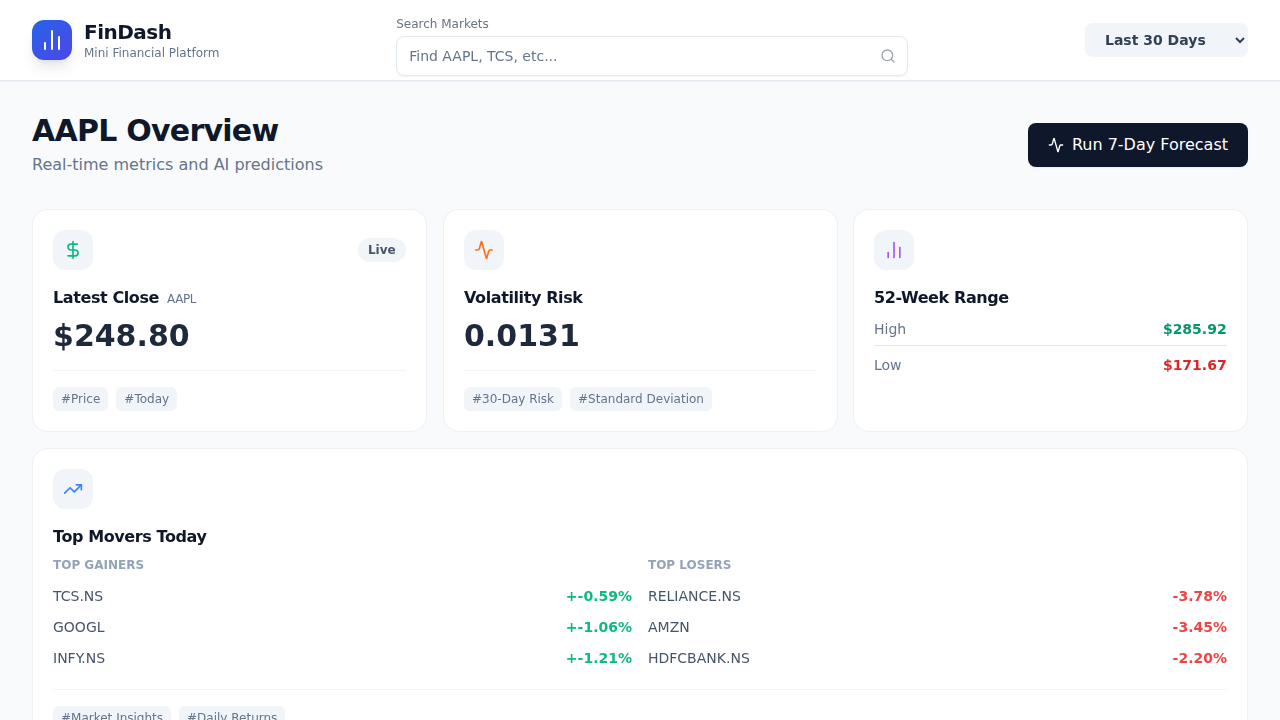
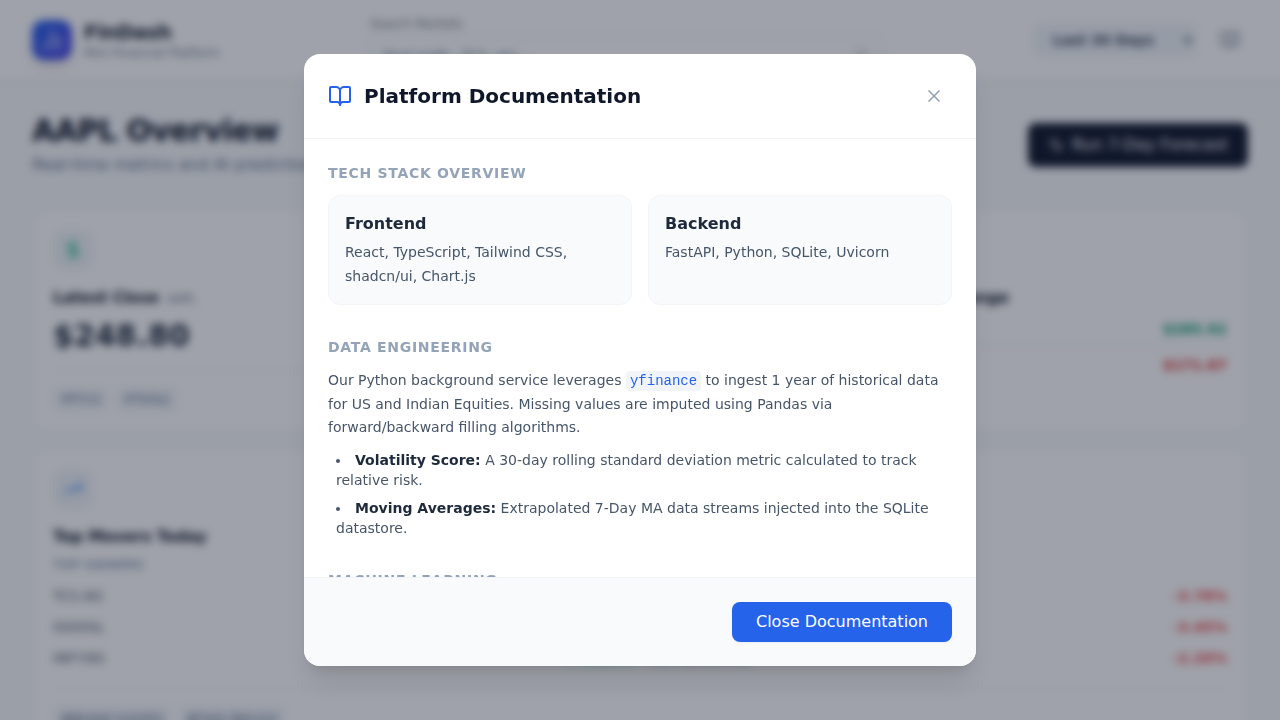
Add Luma Spin loader and Documentation Modal

diff --git a/frontend/src/App.tsx b/frontend/src/App.tsx
@@ -1,6 +1,7 @@
 import { useEffect, useState, useMemo } from 'react'
 import { ActionSearchBar, Action } from '@/components/ui/action-search-bar'
 import { BentoGrid, BentoItem } from '@/components/ui/bento-grid'
+import { LumaSpin } from '@/components/ui/luma-spin'
 import {
   TrendingUp,
   Activity,
@@ -8,7 +9,9 @@ import {
   DollarSign,
   AlertCircle,
   Clock,
-  Briefcase
+  Briefcase,
+  BookOpen,
+  X
 } from 'lucide-react'
 import {
   Chart as ChartJS,
@@ -37,6 +40,9 @@ ChartJS.register(
 const API_BASE = '/api'
 
 function App() {
+  const [isAppLoading, setIsAppLoading] = useState(true)
+  const [isDocsOpen, setIsDocsOpen] = useState(false)
+
   const [companies, setCompanies] = useState<string[]>([])
   const [selectedSymbol, setSelectedSymbol] = useState<string>('AAPL')
   const [summary, setSummary] = useState<any>(null)
@@ -45,6 +51,14 @@ function App() {
   const [timeRange, setTimeRange] = useState('30')
   const [prediction, setPrediction] = useState<any>(null)
   const [isPredicting, setIsPredicting] = useState(false)
+
+  // Loading Screen Delay
+  useEffect(() => {
+    const timer = setTimeout(() => {
+      setIsAppLoading(false)
+    }, 2000)
+    return () => clearTimeout(timer)
+  }, [])
 
   // API Calls
   useEffect(() => {
@@ -199,11 +213,20 @@ function App() {
     ]
   }, [summary, insights, selectedSymbol])
 
+  if (isAppLoading) {
+    return (
+      <div className="min-h-screen bg-slate-50 flex flex-col items-center justify-center">
+        <LumaSpin />
+        <p className="mt-8 text-slate-500 font-medium tracking-wide animate-pulse">Initializing Platform...</p>
+      </div>
+    )
+  }
+
   return (
     <div className="min-h-screen bg-slate-50 text-slate-900 font-sans selection:bg-blue-200">
 
       {/* Header section with Search */}
-      <header className="bg-white border-b border-slate-200 sticky top-0 z-50 shadow-sm">
+      <header className="bg-white border-b border-slate-200 sticky top-0 z-40 shadow-sm">
         <div className="max-w-7xl mx-auto px-4 sm:px-6 lg:px-8">
           <div className="flex justify-between items-center h-20">
             <div className="flex items-center gap-3">
@@ -216,7 +239,7 @@ function App() {
               </div>
             </div>
 
-            <div className="w-full max-w-lg mx-auto">
+            <div className="w-full max-w-lg mx-auto z-50">
                {searchActions.length > 0 && (
                  <ActionSearchBar
                     actions={searchActions}
@@ -235,13 +258,21 @@ function App() {
                 <option value="90">Last 90 Days</option>
                 <option value="180">Last 180 Days</option>
               </select>
+
+              <button
+                onClick={() => setIsDocsOpen(true)}
+                className="p-2 text-slate-500 hover:text-blue-600 hover:bg-blue-50 rounded-lg transition-colors"
+                title="Documentation"
+              >
+                <BookOpen className="w-5 h-5" />
+              </button>
             </div>
           </div>
         </div>
       </header>
 
       {/* Main Content */}
-      <main className="max-w-7xl mx-auto px-4 sm:px-6 lg:px-8 py-8 space-y-8">
+      <main className="max-w-7xl mx-auto px-4 sm:px-6 lg:px-8 py-8 space-y-8 relative z-10">
 
         {/* Title */}
         <div className="flex items-center justify-between">
@@ -283,12 +314,12 @@ function App() {
         )}
 
         {/* Top Bento Grid */}
-        <div className="w-full">
+        <div className="w-full relative z-0">
            <BentoGrid items={bentoItems} />
         </div>
 
         {/* Chart Section */}
-        <div className="bg-white p-6 rounded-2xl shadow-sm border border-slate-200/60">
+        <div className="bg-white p-6 rounded-2xl shadow-sm border border-slate-200/60 relative z-0">
            <div className="flex items-center gap-2 mb-6">
               <Clock className="text-slate-400 w-5 h-5" />
               <h3 className="font-semibold text-slate-800">Historical Price Trend</h3>
@@ -330,6 +361,92 @@ function App() {
         </div>
 
       </main>
+
+      {/* Documentation Modal Overlay */}
+      {isDocsOpen && (
+        <div className="fixed inset-0 bg-slate-900/40 backdrop-blur-sm z-50 flex items-center justify-center p-4">
+          <div className="bg-white rounded-2xl shadow-xl w-full max-w-2xl max-h-[85vh] overflow-hidden flex flex-col animate-in zoom-in-95 duration-200">
+            <div className="flex justify-between items-center p-6 border-b border-slate-100">
+              <div className="flex items-center gap-3">
+                <BookOpen className="text-blue-600 w-6 h-6" />
+                <h2 className="text-xl font-bold text-slate-900">Platform Documentation</h2>
+              </div>
+              <button
+                onClick={() => setIsDocsOpen(false)}
+                className="text-slate-400 hover:text-slate-600 hover:bg-slate-100 p-2 rounded-lg transition-colors"
+              >
+                <X className="w-5 h-5" />
+              </button>
+            </div>
+            <div className="p-6 overflow-y-auto">
+              <div className="space-y-8">
+
+                <section>
+                  <h3 className="text-sm font-bold tracking-wider text-slate-400 uppercase mb-3">Tech Stack Overview</h3>
+                  <div className="grid grid-cols-2 gap-4">
+                    <div className="bg-slate-50 p-4 rounded-xl border border-slate-100">
+                      <span className="font-semibold text-slate-800 block mb-1">Frontend</span>
+                      <span className="text-sm text-slate-600">React, TypeScript, Tailwind CSS, shadcn/ui, Chart.js</span>
+                    </div>
+                    <div className="bg-slate-50 p-4 rounded-xl border border-slate-100">
+                      <span className="font-semibold text-slate-800 block mb-1">Backend</span>
+                      <span className="text-sm text-slate-600">FastAPI, Python, SQLite, Uvicorn</span>
+                    </div>
+                  </div>
+                </section>
+
+                <section>
+                  <h3 className="text-sm font-bold tracking-wider text-slate-400 uppercase mb-3">Data Engineering</h3>
+                  <p className="text-sm text-slate-600 leading-relaxed mb-3">
+                    Our Python background service leverages <code className="bg-slate-100 px-1 py-0.5 rounded text-blue-600">yfinance</code> to ingest 1 year of historical data for US and Indian Equities.
+                    Missing values are imputed using Pandas via forward/backward filling algorithms.
+                  </p>
+                  <ul className="text-sm text-slate-600 space-y-2 list-disc list-inside ml-2">
+                    <li><strong className="text-slate-800">Volatility Score:</strong> A 30-day rolling standard deviation metric calculated to track relative risk.</li>
+                    <li><strong className="text-slate-800">Moving Averages:</strong> Extrapolated 7-Day MA data streams injected into the SQLite datastore.</li>
+                  </ul>
+                </section>
+
+                <section>
+                  <h3 className="text-sm font-bold tracking-wider text-slate-400 uppercase mb-3">Machine Learning</h3>
+                  <p className="text-sm text-slate-600 leading-relaxed">
+                    The <strong>7-Day Forecast</strong> uses <code className="bg-slate-100 px-1 py-0.5 rounded text-blue-600">scikit-learn</code>'s <code>LinearRegression</code> module.
+                    It trains a model on the fly utilizing the latest 60-day price trend of the selected asset to extrapolate short-term future support/resistance trajectories.
+                  </p>
+                </section>
+
+                <section>
+                  <h3 className="text-sm font-bold tracking-wider text-slate-400 uppercase mb-3">Core API Endpoints</h3>
+                  <div className="space-y-3">
+                    <div className="bg-slate-50 px-4 py-3 rounded-lg border border-slate-100 flex items-center justify-between">
+                      <code className="text-sm font-mono text-emerald-600">GET /api/data/{'{symbol}'}</code>
+                      <span className="text-xs text-slate-500 font-medium">Historical OHLCV</span>
+                    </div>
+                    <div className="bg-slate-50 px-4 py-3 rounded-lg border border-slate-100 flex items-center justify-between">
+                      <code className="text-sm font-mono text-emerald-600">GET /api/summary/{'{symbol}'}</code>
+                      <span className="text-xs text-slate-500 font-medium">Aggregated Metrics</span>
+                    </div>
+                    <div className="bg-slate-50 px-4 py-3 rounded-lg border border-slate-100 flex items-center justify-between">
+                      <code className="text-sm font-mono text-emerald-600">GET /api/predict/{'{symbol}'}</code>
+                      <span className="text-xs text-slate-500 font-medium">ML Inference</span>
+                    </div>
+                  </div>
+                </section>
+
+              </div>
+            </div>
+            <div className="p-6 border-t border-slate-100 bg-slate-50 flex justify-end">
+              <button
+                onClick={() => setIsDocsOpen(false)}
+                className="px-6 py-2 bg-blue-600 hover:bg-blue-700 text-white rounded-lg font-medium transition-colors shadow-sm"
+              >
+                Close Documentation
+              </button>
+            </div>
+          </div>
+        </div>
+      )}
+
     </div>
   )
 }

diff --git a/frontend/src/components/ui/luma-spin.tsx b/frontend/src/components/ui/luma-spin.tsx
@@ -1,0 +1,45 @@
+export const LumaSpin = () => {
+  return (
+    <div className="relative w-[65px] aspect-square">
+      <span className="absolute rounded-[50px] animate-loaderAnim shadow-[inset_0_0_0_3px] shadow-gray-800 dark:shadow-gray-100" />
+      <span className="absolute rounded-[50px] animate-loaderAnim animation-delay shadow-[inset_0_0_0_3px] shadow-gray-800 dark:shadow-gray-100" />
+      <style>{`
+        @keyframes loaderAnim {
+          0% {
+            inset: 0 35px 35px 0;
+          }
+          12.5% {
+            inset: 0 35px 0 0;
+          }
+          25% {
+            inset: 35px 35px 0 0;
+          }
+          37.5% {
+            inset: 35px 0 0 0;
+          }
+          50% {
+            inset: 35px 0 0 35px;
+          }
+          62.5% {
+            inset: 0 0 0 35px;
+          }
+          75% {
+            inset: 0 0 35px 35px;
+          }
+          87.5% {
+            inset: 0 0 35px 0;
+          }
+          100% {
+            inset: 0 35px 35px 0;
+          }
+        }
+        .animate-loaderAnim {
+          animation: loaderAnim 2.5s infinite;
+        }
+        .animation-delay {
+          animation-delay: -1.25s;
+        }
+      `}</style>
+    </div>
+  );
+};
